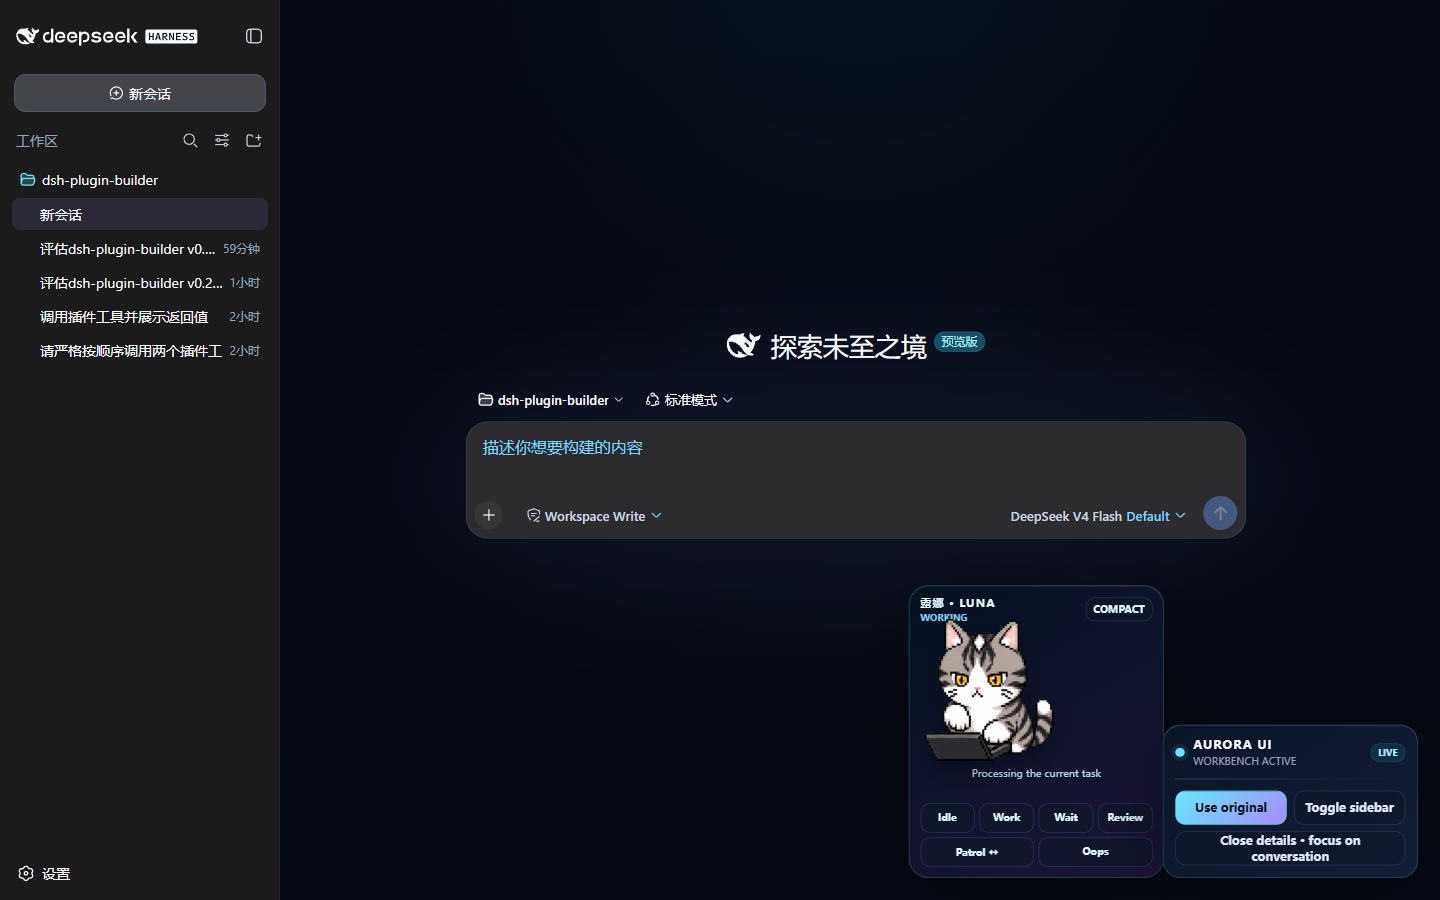
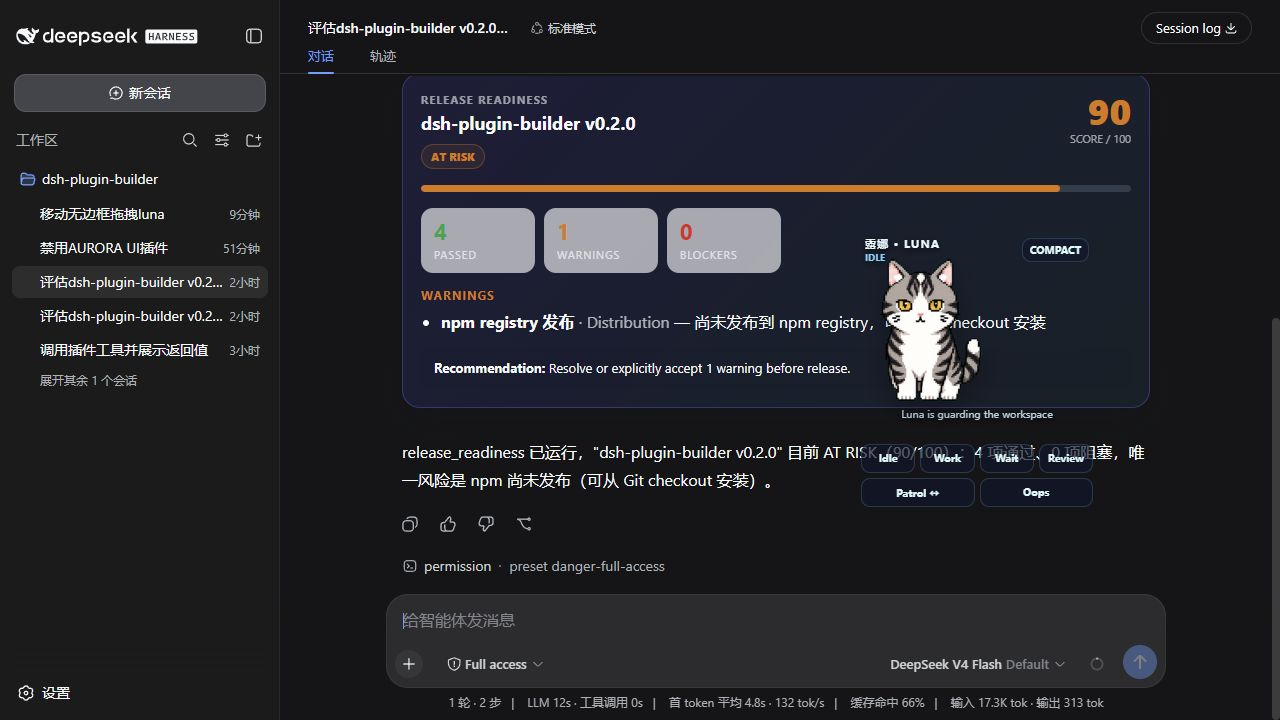
feat(luna): add frameless persistent dragging

diff --git a/showcase/dsh-luna-pet/src/client/index.ts b/showcase/dsh-luna-pet/src/client/index.ts
@@ -4,6 +4,7 @@ import {
   useRef,
   useState,
   type CSSProperties,
+  type PointerEvent as ReactPointerEvent,
 } from 'react'
 import type { ClientContext } from '@deepseek-ai/dsh-client-runtime/client'
 import type {} from '@deepseek-ai/dsh-client-ui-layout/client'
@@ -32,6 +33,20 @@ export interface AnimationDefinition {
 
 export const PET_CELL = { width: 192, height: 208 } as const
 export const PET_ATLAS = { columns: 8, rows: 9, width: 1536, height: 1872 } as const
+export const LUNA_POSITION_STORAGE_KEY = 'dsh-luna-pet.position.v1'
+
+interface PetPosition {
+  x: number
+  y: number
+}
+
+interface DragSession {
+  pointerId: number
+  startX: number
+  startY: number
+  origin: PetPosition
+  moved: boolean
+}
 
 export const ANIMATIONS: Record<PetState, AnimationDefinition> = {
   idle: { row: 0, durations: [280, 110, 110, 140, 140, 320], label: 'IDLE', message: 'Luna is guarding the workspace' },
@@ -48,6 +63,42 @@ export const ANIMATIONS: Record<PetState, AnimationDefinition> = {
 const SCALE = 0.72
 const VIEW_WIDTH = PET_CELL.width * SCALE
 const VIEW_HEIGHT = PET_CELL.height * SCALE
+const VIEWPORT_MARGIN = 8
+const DRAG_THRESHOLD = 4
+
+function loadPosition(): PetPosition | null {
+  if (typeof window === 'undefined') return null
+  try {
+    const value: unknown = JSON.parse(window.localStorage.getItem(LUNA_POSITION_STORAGE_KEY) ?? 'null')
+    if (
+      typeof value === 'object' && value !== null &&
+      'x' in value && typeof value.x === 'number' && Number.isFinite(value.x) &&
+      'y' in value && typeof value.y === 'number' && Number.isFinite(value.y)
+    ) {
+      return { x: value.x, y: value.y }
+    }
+  } catch {
+    // Ignore unavailable storage and malformed values; Luna falls back to her default position.
+  }
+  return null
+}
+
+function savePosition(position: PetPosition): void {
+  try {
+    window.localStorage.setItem(LUNA_POSITION_STORAGE_KEY, JSON.stringify(position))
+  } catch {
+    // Position persistence is optional when storage is unavailable.
+  }
+}
+
+function clampPosition(position: PetPosition, width: number, height: number): PetPosition {
+  const maxX = Math.max(VIEWPORT_MARGIN, window.innerWidth - width - VIEWPORT_MARGIN)
+  const maxY = Math.max(VIEWPORT_MARGIN, window.innerHeight - height - VIEWPORT_MARGIN)
+  return {
+    x: Math.min(maxX, Math.max(VIEWPORT_MARGIN, position.x)),
+    y: Math.min(maxY, Math.max(VIEWPORT_MARGIN, position.y)),
+  }
+}
 
 function spriteDataUrl(): string {
   return typeof __LUNA_SPRITE_DATA_URL__ === 'string'
@@ -95,13 +146,13 @@ const shellStyle: CSSProperties = {
   bottom: '22px',
   zIndex: 999,
   width: '232px',
-  padding: '10px 11px 11px',
+  padding: 0,
   color: '#e6fbff',
-  border: '1px solid rgba(94, 234, 212, .28)',
-  borderRadius: '20px',
-  background: 'linear-gradient(150deg, rgba(5, 18, 34, .95), rgba(30, 22, 58, .92))',
-  boxShadow: '0 20px 70px rgba(0, 0, 0, .40), inset 0 1px 0 rgba(255, 255, 255, .07)',
-  backdropFilter: 'blur(18px)',
+  border: 0,
+  borderRadius: 0,
+  background: 'transparent',
+  boxShadow: 'none',
+  backdropFilter: 'none',
   pointerEvents: 'auto',
   fontFamily: 'ui-sans-serif, system-ui, sans-serif',
 }
@@ -123,13 +174,44 @@ function createPetOverlay() {
     const [selected, setSelected] = useState<PetState>('idle')
     const [transient, setTransient] = useState<PetState | null>(null)
     const [compact, setCompact] = useState(false)
+    const [position, setPosition] = useState<PetPosition | null>(() => loadPosition())
+    const [dragging, setDragging] = useState(false)
     const [patrolDirection, setPatrolDirection] = useState<'running-right' | 'running-left'>('running-right')
+    const shellRef = useRef<HTMLElement | null>(null)
+    const positionRef = useRef<PetPosition | null>(position)
+    const dragRef = useRef<DragSession | null>(null)
+    const suppressClickRef = useRef(false)
     const transientTimer = useRef(0)
+    const positionSaveTimer = useRef(0)
     const state = transient ?? selected
     const frame = usePetFrame(state)
     const animation = ANIMATIONS[state]
 
-    useEffect(() => () => window.clearTimeout(transientTimer.current), [])
+    useEffect(() => () => {
+      window.clearTimeout(transientTimer.current)
+      window.clearTimeout(positionSaveTimer.current)
+    }, [])
+
+    useEffect(() => {
+      const keepOnScreen = () => {
+        const shell = shellRef.current
+        if (!shell) return
+        const rect = shell.getBoundingClientRect()
+        const current = positionRef.current ?? { x: rect.left, y: rect.top }
+        const next = clampPosition(current, rect.width, rect.height)
+        positionRef.current = next
+        setPosition(next)
+        savePosition(next)
+      }
+      keepOnScreen()
+      window.addEventListener('resize', keepOnScreen)
+      const observer = new ResizeObserver(keepOnScreen)
+      if (shellRef.current) observer.observe(shellRef.current)
+      return () => {
+        window.removeEventListener('resize', keepOnScreen)
+        observer.disconnect()
+      }
+    }, [])
 
     const playTransient = (next: PetState, duration: number) => {
       window.clearTimeout(transientTimer.current)
@@ -139,6 +221,57 @@ function createPetOverlay() {
     const patrol = () => {
       setSelected(patrolDirection)
       setPatrolDirection(patrolDirection === 'running-right' ? 'running-left' : 'running-right')
+    }
+    const moveTo = (next: PetPosition) => {
+      const shell = shellRef.current
+      if (!shell) return
+      const clamped = clampPosition(next, shell.offsetWidth, shell.offsetHeight)
+      positionRef.current = clamped
+      setPosition(clamped)
+      window.clearTimeout(positionSaveTimer.current)
+      positionSaveTimer.current = window.setTimeout(() => savePosition(clamped), 80)
+    }
+    const onPointerDown = (event: ReactPointerEvent<HTMLButtonElement>) => {
+      if (event.button !== 0 || !shellRef.current) return
+      const rect = shellRef.current.getBoundingClientRect()
+      dragRef.current = {
+        pointerId: event.pointerId,
+        startX: event.clientX,
+        startY: event.clientY,
+        origin: { x: rect.left, y: rect.top },
+        moved: false,
+      }
+      positionRef.current = { x: rect.left, y: rect.top }
+      setPosition(positionRef.current)
+      setTransient(null)
+      setDragging(true)
+      event.currentTarget.setPointerCapture(event.pointerId)
+      event.preventDefault()
+    }
+    const onPointerMove = (event: ReactPointerEvent<HTMLButtonElement>) => {
+      const drag = dragRef.current
+      if (!drag || drag.pointerId !== event.pointerId) return
+      const deltaX = event.clientX - drag.startX
+      const deltaY = event.clientY - drag.startY
+      if (!drag.moved && Math.hypot(deltaX, deltaY) < DRAG_THRESHOLD) return
+      drag.moved = true
+      moveTo({ x: drag.origin.x + deltaX, y: drag.origin.y + deltaY })
+      event.preventDefault()
+    }
+    const finishDrag = (event: ReactPointerEvent<HTMLButtonElement>) => {
+      const drag = dragRef.current
+      if (!drag || drag.pointerId !== event.pointerId) return
+      if (event.currentTarget.hasPointerCapture(event.pointerId)) {
+        event.currentTarget.releasePointerCapture(event.pointerId)
+      }
+      dragRef.current = null
+      setDragging(false)
+      if (drag.moved && positionRef.current) {
+        suppressClickRef.current = true
+        window.clearTimeout(positionSaveTimer.current)
+        savePosition(positionRef.current)
+        window.setTimeout(() => { suppressClickRef.current = false }, 0)
+      }
     }
 
     const petStyle: CSSProperties = {
@@ -151,16 +284,23 @@ function createPetOverlay() {
       backgroundRepeat: 'no-repeat',
       backgroundSize: `${PET_ATLAS.width * SCALE}px ${PET_ATLAS.height * SCALE}px`,
       backgroundPosition: `${-frame * VIEW_WIDTH}px ${-animation.row * VIEW_HEIGHT}px`,
-      cursor: 'pointer',
+      cursor: dragging ? 'grabbing' : 'grab',
       imageRendering: 'auto',
       filter: 'drop-shadow(0 11px 12px rgba(0, 0, 0, .28))',
+      touchAction: 'none',
+      userSelect: 'none',
     }
 
+    const positionedShellStyle: CSSProperties = position
+      ? { ...shellStyle, width: compact ? '164px' : shellStyle.width, left: position.x, top: position.y, right: 'auto', bottom: 'auto' }
+      : { ...shellStyle, width: compact ? '164px' : shellStyle.width }
+
     return h('aside', {
-      style: { ...shellStyle, width: compact ? '164px' : shellStyle.width },
+      ref: shellRef,
+      style: positionedShellStyle,
       'aria-label': 'Luna pet controls',
     },
-      h('div', { style: { display: 'flex', alignItems: 'center', justifyContent: 'space-between', gap: '8px' } },
+      h('div', { style: { display: 'flex', alignItems: 'center', justifyContent: 'space-between', gap: '8px', padding: '0 4px', textShadow: '0 2px 6px rgba(0, 0, 0, .9)' } },
         h('div', null,
           h('div', { style: { fontSize: '11px', fontWeight: 900, letterSpacing: '.10em' } }, '露娜 · LUNA'),
           h('div', { style: { marginTop: '1px', color: '#7dd3fc', fontSize: '9px', fontWeight: 750 } }, animation.label),
@@ -175,17 +315,30 @@ function createPetOverlay() {
       h('button', {
         type: 'button',
         style: petStyle,
-        title: 'Click Luna to make her happy; hover to pet her',
+        title: 'Drag Luna to move her; click to make her happy; hover to pet her',
         'aria-label': `Luna is ${animation.label.toLowerCase()}`,
-        onClick: () => playTransient('jumping', 1100),
-        onMouseEnter: () => playTransient('waving', 900),
-        onMouseLeave: () => setTransient(null),
+        onPointerDown,
+        onPointerMove,
+        onPointerUp: finishDrag,
+        onPointerCancel: finishDrag,
+        onLostPointerCapture: finishDrag,
+        onDragStart: (event: React.DragEvent<HTMLButtonElement>) => event.preventDefault(),
+        onClick: () => {
+          if (!suppressClickRef.current) playTransient('jumping', 1100)
+        },
+        onMouseEnter: () => {
+          if (!dragRef.current) playTransient('waving', 900)
+        },
+        onMouseLeave: () => {
+          if (!dragRef.current) setTransient(null)
+        },
       }),
       compact ? null : h('div', null,
         h('div', {
           style: {
             minHeight: '28px', margin: '0 2px 8px', color: '#b9d7e8',
             textAlign: 'center', fontSize: '10px', lineHeight: 1.35,
+            textShadow: '0 2px 6px rgba(0, 0, 0, .95)',
           },
         }, animation.message),
         h('div', { style: { display: 'grid', gridTemplateColumns: 'repeat(4, 1fr)', gap: '5px' } },

diff --git a/README.md b/README.md
@@ -20,7 +20,7 @@ The repository includes four plugins produced with this Skill. All are installed
 | Package | Shape and extension point | Visible effect |
 |---|---|---|
 | [`dsh-aurora-ui`](./showcase/dsh-aurora-ui) | Pure Client Web UI; `ctx.theme.register()`, additive `shell.overlay`, and `ctx.layout` | Recolors the whole application with a cyan/violet Aurora theme and adds a floating controller for theme, sidebar, and details actions. |
-| [`dsh-luna-pet`](./showcase/dsh-luna-pet) | Pure Client Web UI; additive `shell.overlay` with an embedded 8×9 WebP atlas | Reuses the user's existing Luna pet and adds visible work, wait, review, patrol, petting, content, and failure animations plus compact mode. |
+| [`dsh-luna-pet`](./showcase/dsh-luna-pet) | Pure Client Web UI; additive `shell.overlay` with an embedded 8×9 WebP atlas | Reuses the user's existing Luna pet with a frameless, draggable overlay, persistent placement, nine animations, and compact mode. |
 | [`dsh-release-readiness`](./showcase/dsh-release-readiness) | Host tool + Client Conversation Node; `ctx.tools.register()` and `conversation.chat.node` | The model submits evidence-backed gates and Chat renders a scored release dashboard with warnings and blockers. The card replays after a service restart from core `tool/result` metadata. |
 | [`dsh-command-safety`](./showcase/dsh-command-safety) | Monotonic policy guard; `ctx.tools.guard()` | Destructive-looking `bash` or `pwsh` calls are denied before the shell runs, with the matched rule shown in the conversation. |
 
@@ -32,7 +32,7 @@ The repository includes four plugins produced with this Skill. All are installed
 
 ### Animated Luna desktop pet
 
-`dsh-luna-pet` reuses the user's existing Luna atlas without modifying `~/.codex/pets/luna`. In this real `WORKING` capture, Luna is using her laptop; the card can switch to waiting, review, patrol, and failure states. Hovering plays her original head-pat response, clicking plays her contented response, and compact mode keeps only the pet visible.
+`dsh-luna-pet` reuses the user's existing Luna atlas without modifying `~/.codex/pets/luna`. This real DSH Web capture shows the frameless overlay after Luna was dragged away from the input area. Drag Luna herself to reposition her; the viewport-clamped position survives reloads. The controls switch among idle, work, wait, review, patrol, and failure states, while hover, click, and compact mode retain their original interactions.
 
 ![Real DeepSeek Harness Luna pet plugin](./docs/images/luna-pet-ui.png)
 
@@ -152,7 +152,7 @@ This is different from `dsh plugin add/remove` or editing the profile `package.j
 
 With `dsh-aurora-ui` installed, the complete Web UI switches to Aurora and the bottom-right controller can restore the original theme, toggle the workspace sidebar, or close the details panel.
 
-With `dsh-luna-pet` installed, use the Luna card to select Idle, Work, Wait, Review, Patrol, or Oops. Hover Luna for her head-pat response, click her for the contented animation, and use Compact to leave only the animated pet visible.
+With `dsh-luna-pet` installed, drag Luna herself to move the frameless overlay; the chosen position survives reloads. Use the floating controls to select Idle, Work, Wait, Review, Patrol, or Oops. Hover Luna for her head-pat response, click her for the contented animation, and use Compact to leave only the animated pet visible.
 
 Ask the model to call `release_readiness` with explicit gates such as Build, Tests, Documentation, Screenshots, and Distribution. Each gate must be `pass`, `warn`, or `fail`; the dashboard is deterministic.
 

diff --git a/showcase/README.md b/showcase/README.md
@@ -5,7 +5,7 @@ These four independent packages were produced by following the repository's `SKI
 | Package | Shape | Mount point | Visible effect |
 |---|---|---|---|
 | `dsh-aurora-ui` | Pure Client Web UI | `ctx.theme.register()`, `shell.overlay`, `ctx.layout` | A whole-app Aurora palette plus a floating, interactive shell controller |
-| `dsh-luna-pet` | Pure Client Web UI | additive `shell.overlay` | The user's existing animated Luna pet with work, wait, review, patrol, petting, content, and failure states |
+| `dsh-luna-pet` | Pure Client Web UI | additive `shell.overlay` | Frameless draggable Luna pet with persistent placement, compact mode, and nine animation states |
 | `dsh-release-readiness` | Host Tool + Client Conversation Node | `ctx.tools.register()`, core `tool/result.meta`, keyed `conversation.chat.node` renderer | A scored, replayable release dashboard with warnings and blockers |
 | `dsh-command-safety` | Policy guard | `ctx.tools.guard()` | A typed denial prevents a matching destructive shell call from executing |
 

diff --git a/showcase/dsh-luna-pet/plugin-design.md b/showcase/dsh-luna-pet/plugin-design.md
@@ -21,7 +21,8 @@
 
 ## Interaction contract
 
-- Luna idles in a non-blocking floating shell card.
+- Luna idles as a frameless, non-blocking shell overlay rather than inside a full-card container.
+- Dragging Luna with a mouse, pen, or touch pointer moves the overlay; the position is clamped to the viewport and persisted in browser-local storage.
 - Hovering plays Luna's original head-pat response; clicking plays her contented animation; named controls select waiting, working, review, patrol, and failed states.
 - A compact mode can hide the control labels while keeping the pet visible.
 - Reduced-motion users see a stable first frame.
@@ -37,3 +38,4 @@
 - [x] Installed `web` profile mounts `luna-pet` and remains HTTP 200.
 - [x] Real browser interaction visibly changes Luna's animation state.
 - [x] Settings → Plugins → Plugin list finds the mounted entry through `showcase` search.
+- [x] Real browser drag persists Luna's position after reload; computed styles confirm the shell has no border, background, or box shadow.

diff --git a/showcase/dsh-luna-pet/README.md b/showcase/dsh-luna-pet/README.md
@@ -15,11 +15,13 @@ Use the same `DSH_HOME` for installation and every restart.
 
 - hover Luna to accept a head pat;
 - click Luna to play her contented animation;
+- drag Luna herself with a mouse, pen, or touch pointer to place her anywhere in the viewport;
+- keep the chosen position across page reloads;
 - choose Idle, Work, Wait, Review, Patrol, or Oops;
 - collapse the controls into compact pet-only mode;
 - respect the operating system's reduced-motion preference.
 
-The package contributes only the additive `shell.overlay` slot. It does not replace `root`, `sidebar`, `conversation`, or any agent-loop behavior.
+The package contributes only the additive `shell.overlay` slot. Luna is rendered without a surrounding card frame, and her position is kept within the visible viewport. The plugin does not replace `root`, `sidebar`, `conversation`, or any agent-loop behavior.
 
 ![Luna running in the real DeepSeek Harness Web UI](../../docs/images/luna-pet-ui.png)
 

diff --git a/CHANGELOG.md b/CHANGELOG.md
@@ -1,5 +1,11 @@
 # Changelog
 
+## 0.6.0 — 2026-08-14
+
+- 将 `dsh-luna-pet` 升级为无外框桌宠：移除整块卡片背景、边框、阴影和模糊层，只保留 Luna 与独立控件。
+- Luna 本体支持鼠标、触控笔和触屏拖拽；位置限制在可见视口内并保存到浏览器本地存储，刷新后自动恢复。
+- 新增拖拽 bundle smoke test，并在真实 DSH Web 中完成“拖动 → 刷新 → 坐标不变”的验证；同步替换真实运行截图。
+
 ## 0.5.0 — 2026-08-14
 
 - 将已有插件的识别、修改、热启用和热停用升级为 Skill 的一等任务模式，不再默认进入新包脚手架。
